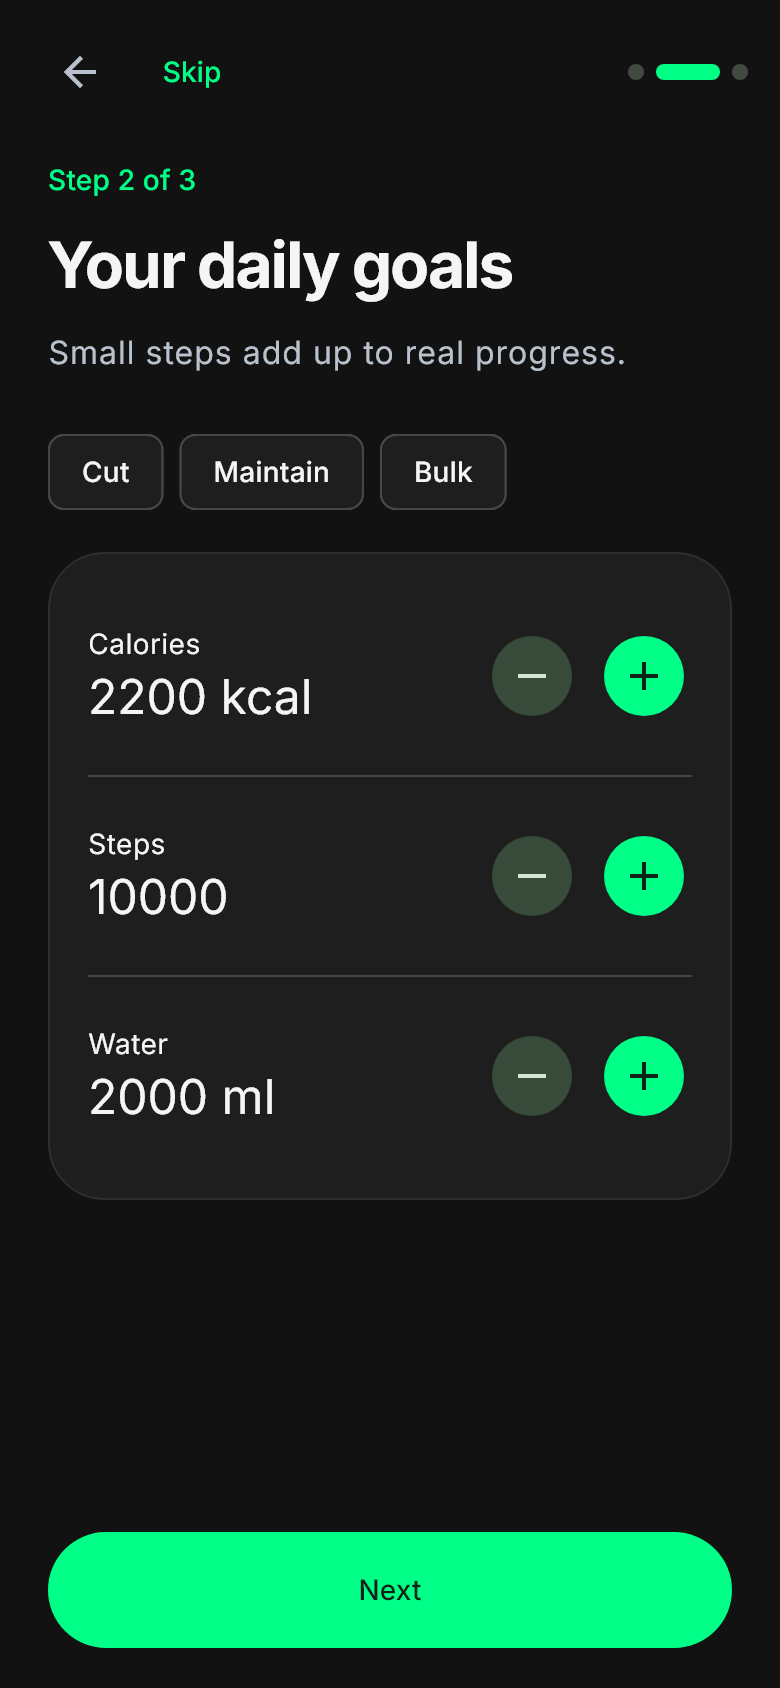
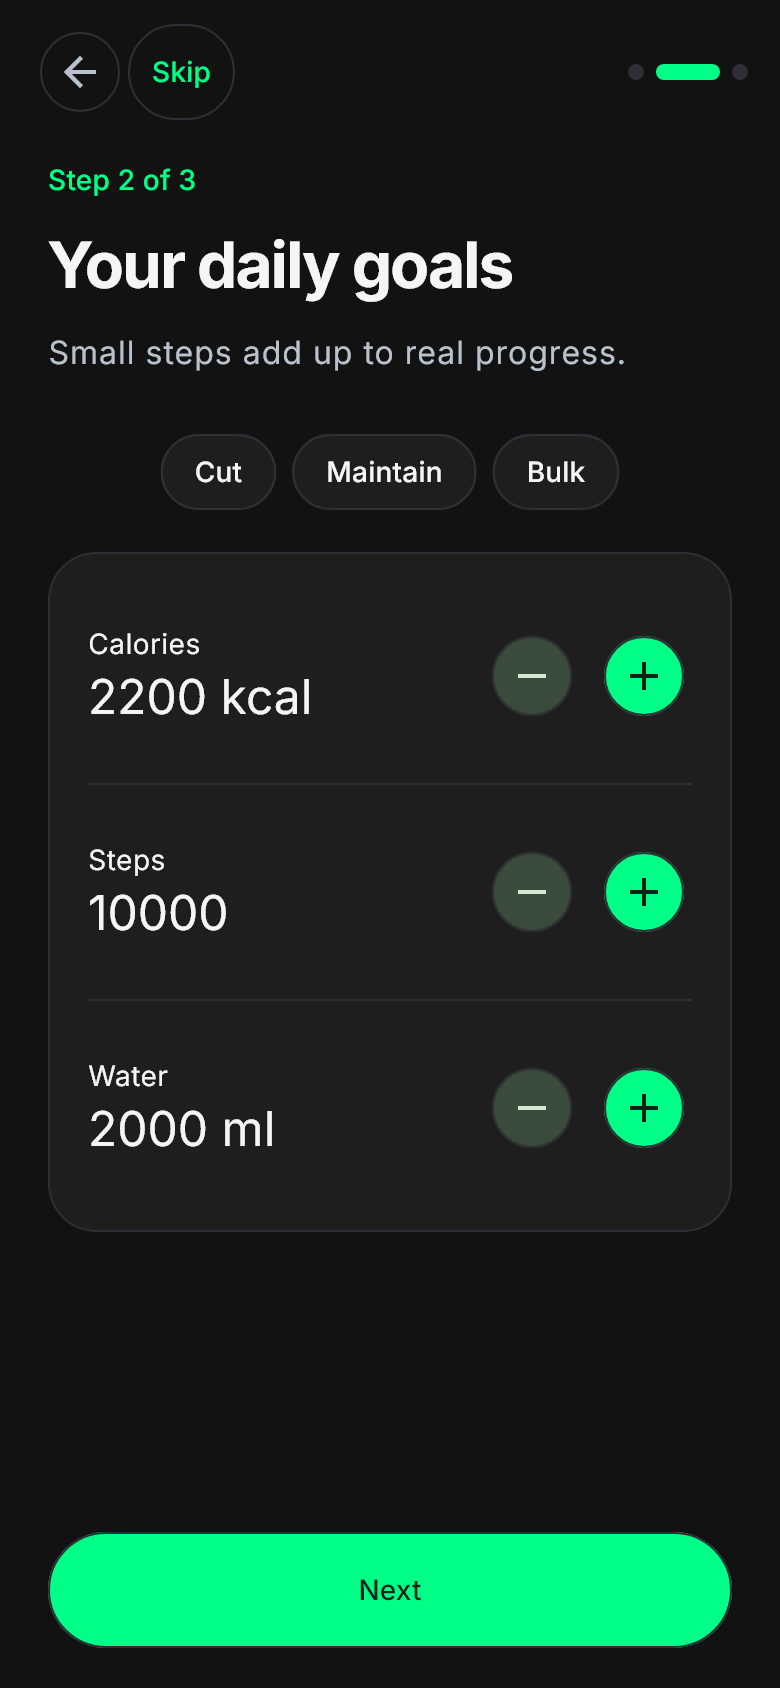
Apply shared 1px expressive borders to all cards and controls

diff --git a/lib/core/theme/app_theme.dart b/lib/core/theme/app_theme.dart
@@ -15,6 +15,12 @@ abstract final class AppTheme {
   static ThemeData get dark => build(const ThemeSettings(), Brightness.dark);
   static ThemeData build(ThemeSettings settings, Brightness brightness) {
     final dark = brightness == Brightness.dark;
+    final outlineColor =
+        dark ? const Color(0xFF2E2E36) : const Color(0xFFD0D5DD);
+    final border = BorderSide(color: outlineColor, width: 1);
+    final capsule = StadiumBorder(side: border);
+    final inputBorder = OutlineInputBorder(
+        borderRadius: BorderRadius.circular(24), borderSide: border);
     final palette = settings.palette;
     final primary = dark
         ? palette.primary
@@ -50,6 +56,8 @@ abstract final class AppTheme {
             .copyWith(
       primary: primary,
       secondary: secondary,
+      outline: outlineColor,
+      outlineVariant: outlineColor,
       onPrimary:
           ThemeData.estimateBrightnessForColor(primary) == Brightness.light
               ? const Color(0xFF102118)
@@ -69,6 +77,32 @@ abstract final class AppTheme {
     final text = base.textTheme;
     return base.copyWith(
       scaffoldBackgroundColor: background,
+      dividerTheme:
+          DividerThemeData(color: outlineColor, thickness: 1, space: 24),
+      chipTheme: base.chipTheme.copyWith(side: border, shape: capsule),
+      outlinedButtonTheme: OutlinedButtonThemeData(
+          style: OutlinedButton.styleFrom(
+              side: border, shape: capsule, minimumSize: const Size(48, 48))),
+      textButtonTheme: TextButtonThemeData(
+          style: TextButton.styleFrom(
+              side: border, shape: capsule, minimumSize: const Size(48, 48))),
+      filledButtonTheme: FilledButtonThemeData(
+          style: FilledButton.styleFrom(
+              side: border, shape: capsule, minimumSize: const Size(48, 48))),
+      elevatedButtonTheme: ElevatedButtonThemeData(
+          style: ElevatedButton.styleFrom(
+              side: border, shape: capsule, minimumSize: const Size(48, 48))),
+      iconButtonTheme: IconButtonThemeData(
+          style: ButtonStyle(
+              side: WidgetStatePropertyAll(border),
+              shape: WidgetStatePropertyAll(capsule))),
+      switchTheme: SwitchThemeData(
+          trackOutlineColor: WidgetStatePropertyAll(outlineColor),
+          trackOutlineWidth: const WidgetStatePropertyAll(1)),
+      checkboxTheme: CheckboxThemeData(side: border),
+      dialogTheme: DialogThemeData(
+          shape: RoundedRectangleBorder(
+              borderRadius: BorderRadius.circular(24), side: border)),
       textTheme: text.copyWith(
           headlineMedium: text.headlineMedium
               ?.copyWith(fontWeight: FontWeight.w700, letterSpacing: -0.6),
@@ -84,14 +118,19 @@ abstract final class AppTheme {
           elevation: 0,
           margin: EdgeInsets.zero,
           clipBehavior: Clip.antiAlias,
-          shape:
-              RoundedRectangleBorder(borderRadius: BorderRadius.circular(24))),
+          shape: RoundedRectangleBorder(
+              borderRadius: BorderRadius.circular(24), side: border)),
       inputDecorationTheme: InputDecorationTheme(
           filled: true,
           fillColor: scheme.surfaceContainerHighest.withAlpha(dark ? 90 : 120),
-          border: OutlineInputBorder(
-              borderRadius: BorderRadius.circular(16),
-              borderSide: BorderSide.none)),
+          border: inputBorder,
+          enabledBorder: inputBorder,
+          disabledBorder: inputBorder,
+          focusedBorder: inputBorder,
+          errorBorder: inputBorder.copyWith(
+              borderSide: BorderSide(color: scheme.error, width: 1)),
+          focusedErrorBorder: inputBorder.copyWith(
+              borderSide: BorderSide(color: scheme.error, width: 1))),
       navigationBarTheme: NavigationBarThemeData(
           backgroundColor: scheme.surface,
           elevation: 0,
@@ -107,8 +146,10 @@ abstract final class AppTheme {
           type: BottomNavigationBarType.fixed),
       bottomSheetTheme: BottomSheetThemeData(
           backgroundColor: scheme.surface,
-          shape: const RoundedRectangleBorder(
-              borderRadius: BorderRadius.vertical(top: Radius.circular(24)))),
+          shape: RoundedRectangleBorder(
+              side: border,
+              borderRadius:
+                  const BorderRadius.vertical(top: Radius.circular(24)))),
     );
   }
 }

diff --git a/test/bordered_theme_test.dart b/test/bordered_theme_test.dart
@@ -1,0 +1,54 @@
+import 'package:flutter/material.dart';
+import 'package:flutter_test/flutter_test.dart';
+import 'package:smart_fitness_dashboard/core/theme/app_theme.dart';
+import 'package:smart_fitness_dashboard/features/settings/domain/theme_settings.dart';
+import 'package:smart_fitness_dashboard/features/dashboard/presentation/widgets/dashboard_card.dart';
+
+void main() {
+  testWidgets(
+      'cards and controls inherit the same 1px outline in light, dark and AMOLED',
+      (tester) async {
+    for (final config in [
+      (Brightness.light, false),
+      (Brightness.dark, false),
+      (Brightness.dark, true)
+    ]) {
+      final theme = AppTheme.build(ThemeSettings(amoled: config.$2), config.$1);
+      final expected = config.$1 == Brightness.light
+          ? const Color(0xFFD0D5DD)
+          : const Color(0xFF2E2E36);
+      await tester.pumpWidget(MaterialApp(
+          theme: theme,
+          home: const Scaffold(
+              body: SingleChildScrollView(
+                  child: Column(children: [
+            DashboardCard(child: Text('dashboard card')),
+            Card(child: Text('plain card')),
+            TextField(decoration: InputDecoration(labelText: 'Input')),
+            Divider(),
+            ChoiceChip(label: Text('250 ml'), selected: false),
+          ])))));
+      expect(theme.colorScheme.outlineVariant, expected);
+      final shape = theme.cardTheme.shape! as RoundedRectangleBorder;
+      expect(shape.side, BorderSide(color: expected, width: 1));
+      expect(shape.borderRadius, BorderRadius.circular(24));
+      expect(theme.dividerTheme.color, expected);
+      expect(theme.dividerTheme.thickness, 1);
+      expect(theme.chipTheme.side, BorderSide(color: expected));
+      final input =
+          theme.inputDecorationTheme.enabledBorder! as OutlineInputBorder;
+      expect(input.borderSide, BorderSide(color: expected));
+      expect(theme.outlinedButtonTheme.style!.side!.resolve({})!.width, 1);
+      expect(theme.textButtonTheme.style!.side!.resolve({})!.color, expected);
+      final rendered = tester
+          .widgetList<Material>(find.descendant(
+              of: find.byType(Card), matching: find.byType(Material)))
+          .where((m) => m.shape is RoundedRectangleBorder);
+      expect(rendered.length, 2);
+      expect(
+          rendered.map((m) => (m.shape! as RoundedRectangleBorder).side.color),
+          everyElement(expected));
+      expect(tester.takeException(), isNull);
+    }
+  });
+}

diff --git a/lib/features/onboarding/presentation/onboarding_screen.dart b/lib/features/onboarding/presentation/onboarding_screen.dart
@@ -95,11 +95,6 @@ class _OnboardingScreenState extends ConsumerState<OnboardingScreen> {
   }
 
   Widget _panel(List<Widget> children) => Card(
-      shape: RoundedRectangleBorder(
-          borderRadius: BorderRadius.circular(28),
-          side: BorderSide(
-              color:
-                  Theme.of(context).colorScheme.outlineVariant.withAlpha(100))),
       child: Padding(
           padding: const EdgeInsets.all(20),
           child: Column(
@@ -247,19 +242,23 @@ class _OnboardingScreenState extends ConsumerState<OnboardingScreen> {
             ]),
             _page('Твои дневные ориентиры',
                 'Небольшие шаги складываются в большой прогресс.', [
-              Wrap(alignment: WrapAlignment.center, spacing: 8, runSpacing: 8, children: [
-                for (final preset in [
-                  ('Сушка', 1800.0),
-                  ('Баланс', 2200.0),
-                  ('Набор', 2600.0)
-                ])
-                  ActionChip(
-                      shape: const StadiumBorder(),
-                      label: QText(preset.$1),
-                      onPressed: _busy
-                          ? null
-                          : () => _goals(goals, calories: preset.$2))
-              ]),
+              Wrap(
+                  alignment: WrapAlignment.center,
+                  spacing: 8,
+                  runSpacing: 8,
+                  children: [
+                    for (final preset in [
+                      ('Сушка', 1800.0),
+                      ('Баланс', 2200.0),
+                      ('Набор', 2600.0)
+                    ])
+                      ActionChip(
+                          shape: const StadiumBorder(),
+                          label: QText(preset.$1),
+                          onPressed: _busy
+                              ? null
+                              : () => _goals(goals, calories: preset.$2))
+                  ]),
               const SizedBox(height: 16),
               _panel([
                 _stepper(

diff --git a/lib/features/nutrition/presentation/widgets/add_food_sheet.dart b/lib/features/nutrition/presentation/widgets/add_food_sheet.dart
@@ -28,8 +28,6 @@ Future<bool?> showAddFoodSheet(
           reverseDuration: Duration(milliseconds: 300)),
       useSafeArea: true,
       backgroundColor: Theme.of(context).colorScheme.surface,
-      shape: const RoundedRectangleBorder(
-          borderRadius: BorderRadius.vertical(top: Radius.circular(24))),
       builder: (_) => AddFoodSheet(date: date, initialMeal: mealType),
     );
 
@@ -278,7 +276,7 @@ class _AddFoodSheetState extends ConsumerState<AddFoodSheet> {
             icon: const Icon(Icons.add),
             label: const QText('Создать свой продукт')),
       ]),
-      const Divider(height: 24, thickness: .5),
+      const Divider(height: 24, thickness: 1),
       const SizedBox(height: 8),
       products.when(
         skipLoadingOnReload: false,
@@ -289,7 +287,7 @@ class _AddFoodSheetState extends ConsumerState<AddFoodSheet> {
             : Column(children: [
                 for (final product in items) ...[
                   if (product != items.first)
-                    const Divider(height: 1, thickness: .5),
+                    const Divider(height: 1, thickness: 1),
                   ListTile(
                     contentPadding: EdgeInsets.zero,
                     title: Text(product.name),
@@ -334,7 +332,7 @@ class _AddFoodSheetState extends ConsumerState<AddFoodSheet> {
                             (local) =>
                                 local.barcode != null &&
                                 local.barcode == p.barcode))) ...[
-                      const Divider(height: 1, thickness: .5),
+                      const Divider(height: 1, thickness: 1),
                       ListTile(
                           contentPadding: EdgeInsets.zero,
                           title: Text(p.name),

diff --git a/lib/features/settings/presentation/widgets/language_card.dart b/lib/features/settings/presentation/widgets/language_card.dart
@@ -12,10 +12,6 @@ class LanguageCard extends ConsumerWidget {
   Widget build(BuildContext context, WidgetRef ref) {
     final value = ref.watch(localeProvider).valueOrNull ?? AppLanguage.system;
     return Card(
-        shape: RoundedRectangleBorder(
-            borderRadius: BorderRadius.circular(28),
-            side: BorderSide(
-                color: Theme.of(context).colorScheme.outlineVariant)),
         child: Padding(
             padding: const EdgeInsets.all(20),
             child: Column(
@@ -39,9 +35,10 @@ class LanguageCard extends ConsumerWidget {
                               focusedBorder: OutlineInputBorder(
                                   borderRadius: BorderRadius.circular(32),
                                   borderSide: BorderSide(
-                                      color:
-                                          Theme.of(context).colorScheme.primary,
-                                      width: 2))),
+                                      color: Theme.of(context)
+                                          .colorScheme
+                                          .outlineVariant,
+                                      width: 1))),
                           items: const [
                             DropdownMenuItem(
                                 value: AppLanguage.ru, child: Text('Русский')),

diff --git a/lib/features/goals/presentation/user_goals_card.dart b/lib/features/goals/presentation/user_goals_card.dart
@@ -24,7 +24,7 @@ class UserGoalsCard extends ConsumerWidget {
                   Expanded(
                       child: QText('Дневные цели',
                           style: Theme.of(context).textTheme.titleLarge)),
-                  TextButton(
+                  OutlinedButton(
                       onPressed: state.isLoading
                           ? null
                           : () => showModalBottomSheet<void>(
@@ -33,9 +33,6 @@ class UserGoalsCard extends ConsumerWidget {
                                 useSafeArea: true,
                                 backgroundColor:
                                     Theme.of(context).colorScheme.surface,
-                                shape: const RoundedRectangleBorder(
-                                    borderRadius: BorderRadius.vertical(
-                                        top: Radius.circular(24))),
                                 builder: (_) =>
                                     EditUserGoalsSheet(initial: goals),
                               ),

diff --git a/lib/shared/widgets/expressive_motion.dart b/lib/shared/widgets/expressive_motion.dart
@@ -25,16 +25,15 @@ class CapsuleChoice extends StatelessWidget {
           duration: expressiveDuration,
           curve: Curves.easeOutExpo,
           decoration: ShapeDecoration(
-              shape: StadiumBorder(
-                  side: BorderSide(
-                      color:
-                          selected ? scheme.primary : scheme.outlineVariant)),
+              shape:
+                  StadiumBorder(side: BorderSide(color: scheme.outlineVariant)),
               color: selected ? scheme.primary : scheme.surface),
           child: TextButton(
               onPressed: onPressed,
               style: TextButton.styleFrom(
                   minimumSize: const Size(64, 48),
                   shape: const StadiumBorder(),
+                  side: BorderSide.none,
                   foregroundColor:
                       selected ? scheme.onPrimary : scheme.onSurface,
                   textStyle:

diff --git a/test/localization_onboarding_test.dart b/test/localization_onboarding_test.dart
@@ -144,8 +144,13 @@ void main() {
     await tester.tap(find.text('Next'));
     await tester.pumpAndSettle();
     expect(find.text('Your daily goals'), findsOneWidget);
-    expect(tester.widgetList<ActionChip>(find.byType(ActionChip)).map((chip) => chip.shape), everyElement(isA<StadiumBorder>()));
-    final presets = find.ancestor(of: find.text('Cut'), matching: find.byType(Wrap)).first;
+    expect(
+        tester
+            .widgetList<ActionChip>(find.byType(ActionChip))
+            .map((chip) => chip.shape),
+        everyElement(isA<StadiumBorder>()));
+    final presets =
+        find.ancestor(of: find.text('Cut'), matching: find.byType(Wrap)).first;
     expect(tester.widget<Wrap>(presets).alignment, WrapAlignment.center);
     await tester.tap(find.byTooltip('Increase').first);
     await tester.pumpAndSettle();

diff --git a/lib/features/settings/presentation/settings_screen.dart b/lib/features/settings/presentation/settings_screen.dart
@@ -122,10 +122,10 @@ class _SettingsScreenState extends ConsumerState<SettingsScreen> {
                         const Divider(),
                         _meal('Завтрак', s.breakfast,
                             (v) => _reminders(s.copyWith(breakfast: v))),
-                        const Divider(height: 1, thickness: .5),
+                        const Divider(height: 1, thickness: 1),
                         _meal('Обед', s.lunch,
                             (v) => _reminders(s.copyWith(lunch: v))),
-                        const Divider(height: 1, thickness: .5),
+                        const Divider(height: 1, thickness: 1),
                         _meal('Ужин', s.dinner,
                             (v) => _reminders(s.copyWith(dinner: v))),
                         const Divider(),

diff --git a/lib/app/dashboard_shell.dart b/lib/app/dashboard_shell.dart
@@ -113,7 +113,10 @@ class FloatingBottomBar extends StatelessWidget {
                                       color: selected == tab
                                           ? scheme.primaryContainer
                                           : Colors.transparent,
-                                      shape: const StadiumBorder(),
+                                      shape: StadiumBorder(
+                                          side: BorderSide(
+                                              color: scheme.outlineVariant,
+                                              width: 1)),
                                       clipBehavior: Clip.antiAlias,
                                       child: InkWell(
                                           key: ValueKey('tab-${tab.name}'),

diff --git a/lib/features/settings/presentation/widgets/appearance_card.dart b/lib/features/settings/presentation/widgets/appearance_card.dart
@@ -23,10 +23,6 @@ class AppearanceCard extends ConsumerWidget {
   Widget build(BuildContext context, WidgetRef ref) {
     final settings = ref.watch(themeSettingsProvider);
     return Card(
-        shape: RoundedRectangleBorder(
-            borderRadius: BorderRadius.circular(28),
-            side: BorderSide(
-                color: Theme.of(context).colorScheme.outlineVariant)),
         child: Padding(
             padding: const EdgeInsets.all(20),
             child: settings.when(

diff --git a/lib/features/nutrition/presentation/widgets/meal_section_card.dart b/lib/features/nutrition/presentation/widgets/meal_section_card.dart
@@ -63,7 +63,7 @@ class MealSectionCard extends StatelessWidget {
                                     .onSurfaceVariant)),
                       ),
                     for (final entry in entries) ...[
-                      const Divider(height: 1, thickness: .5),
+                      const Divider(height: 1, thickness: 1),
                       Dismissible(
                         key: ValueKey('food-log-${entry.id}'),
                         direction: DismissDirection.endToStart,
